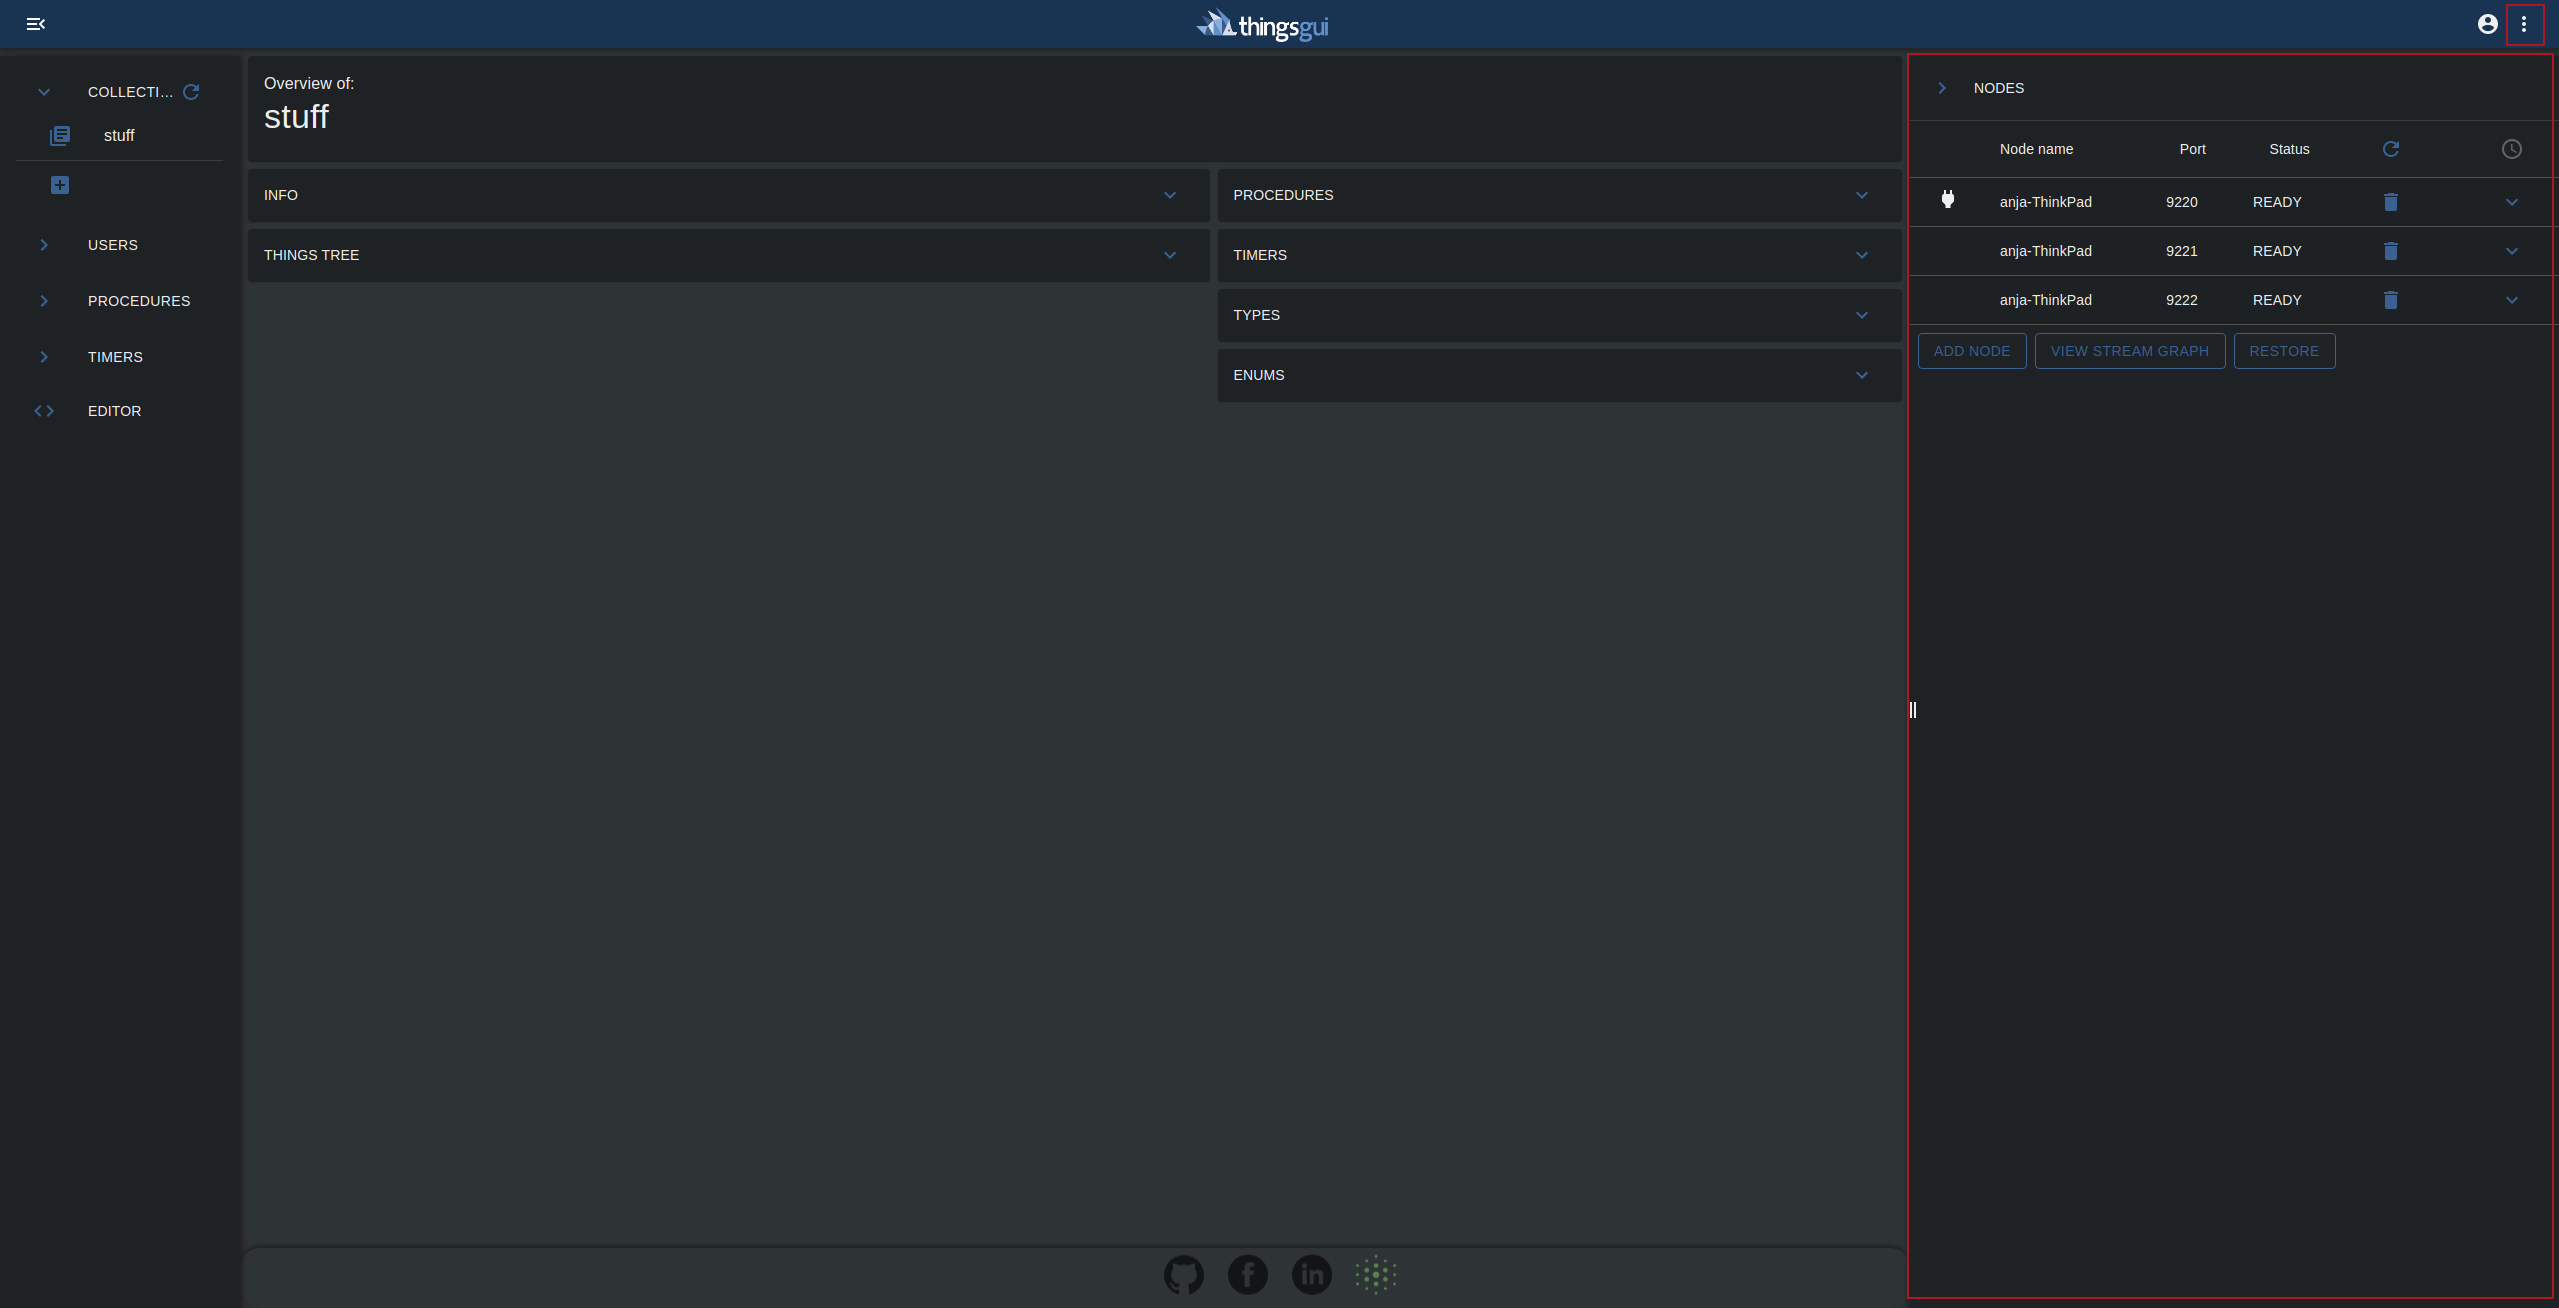
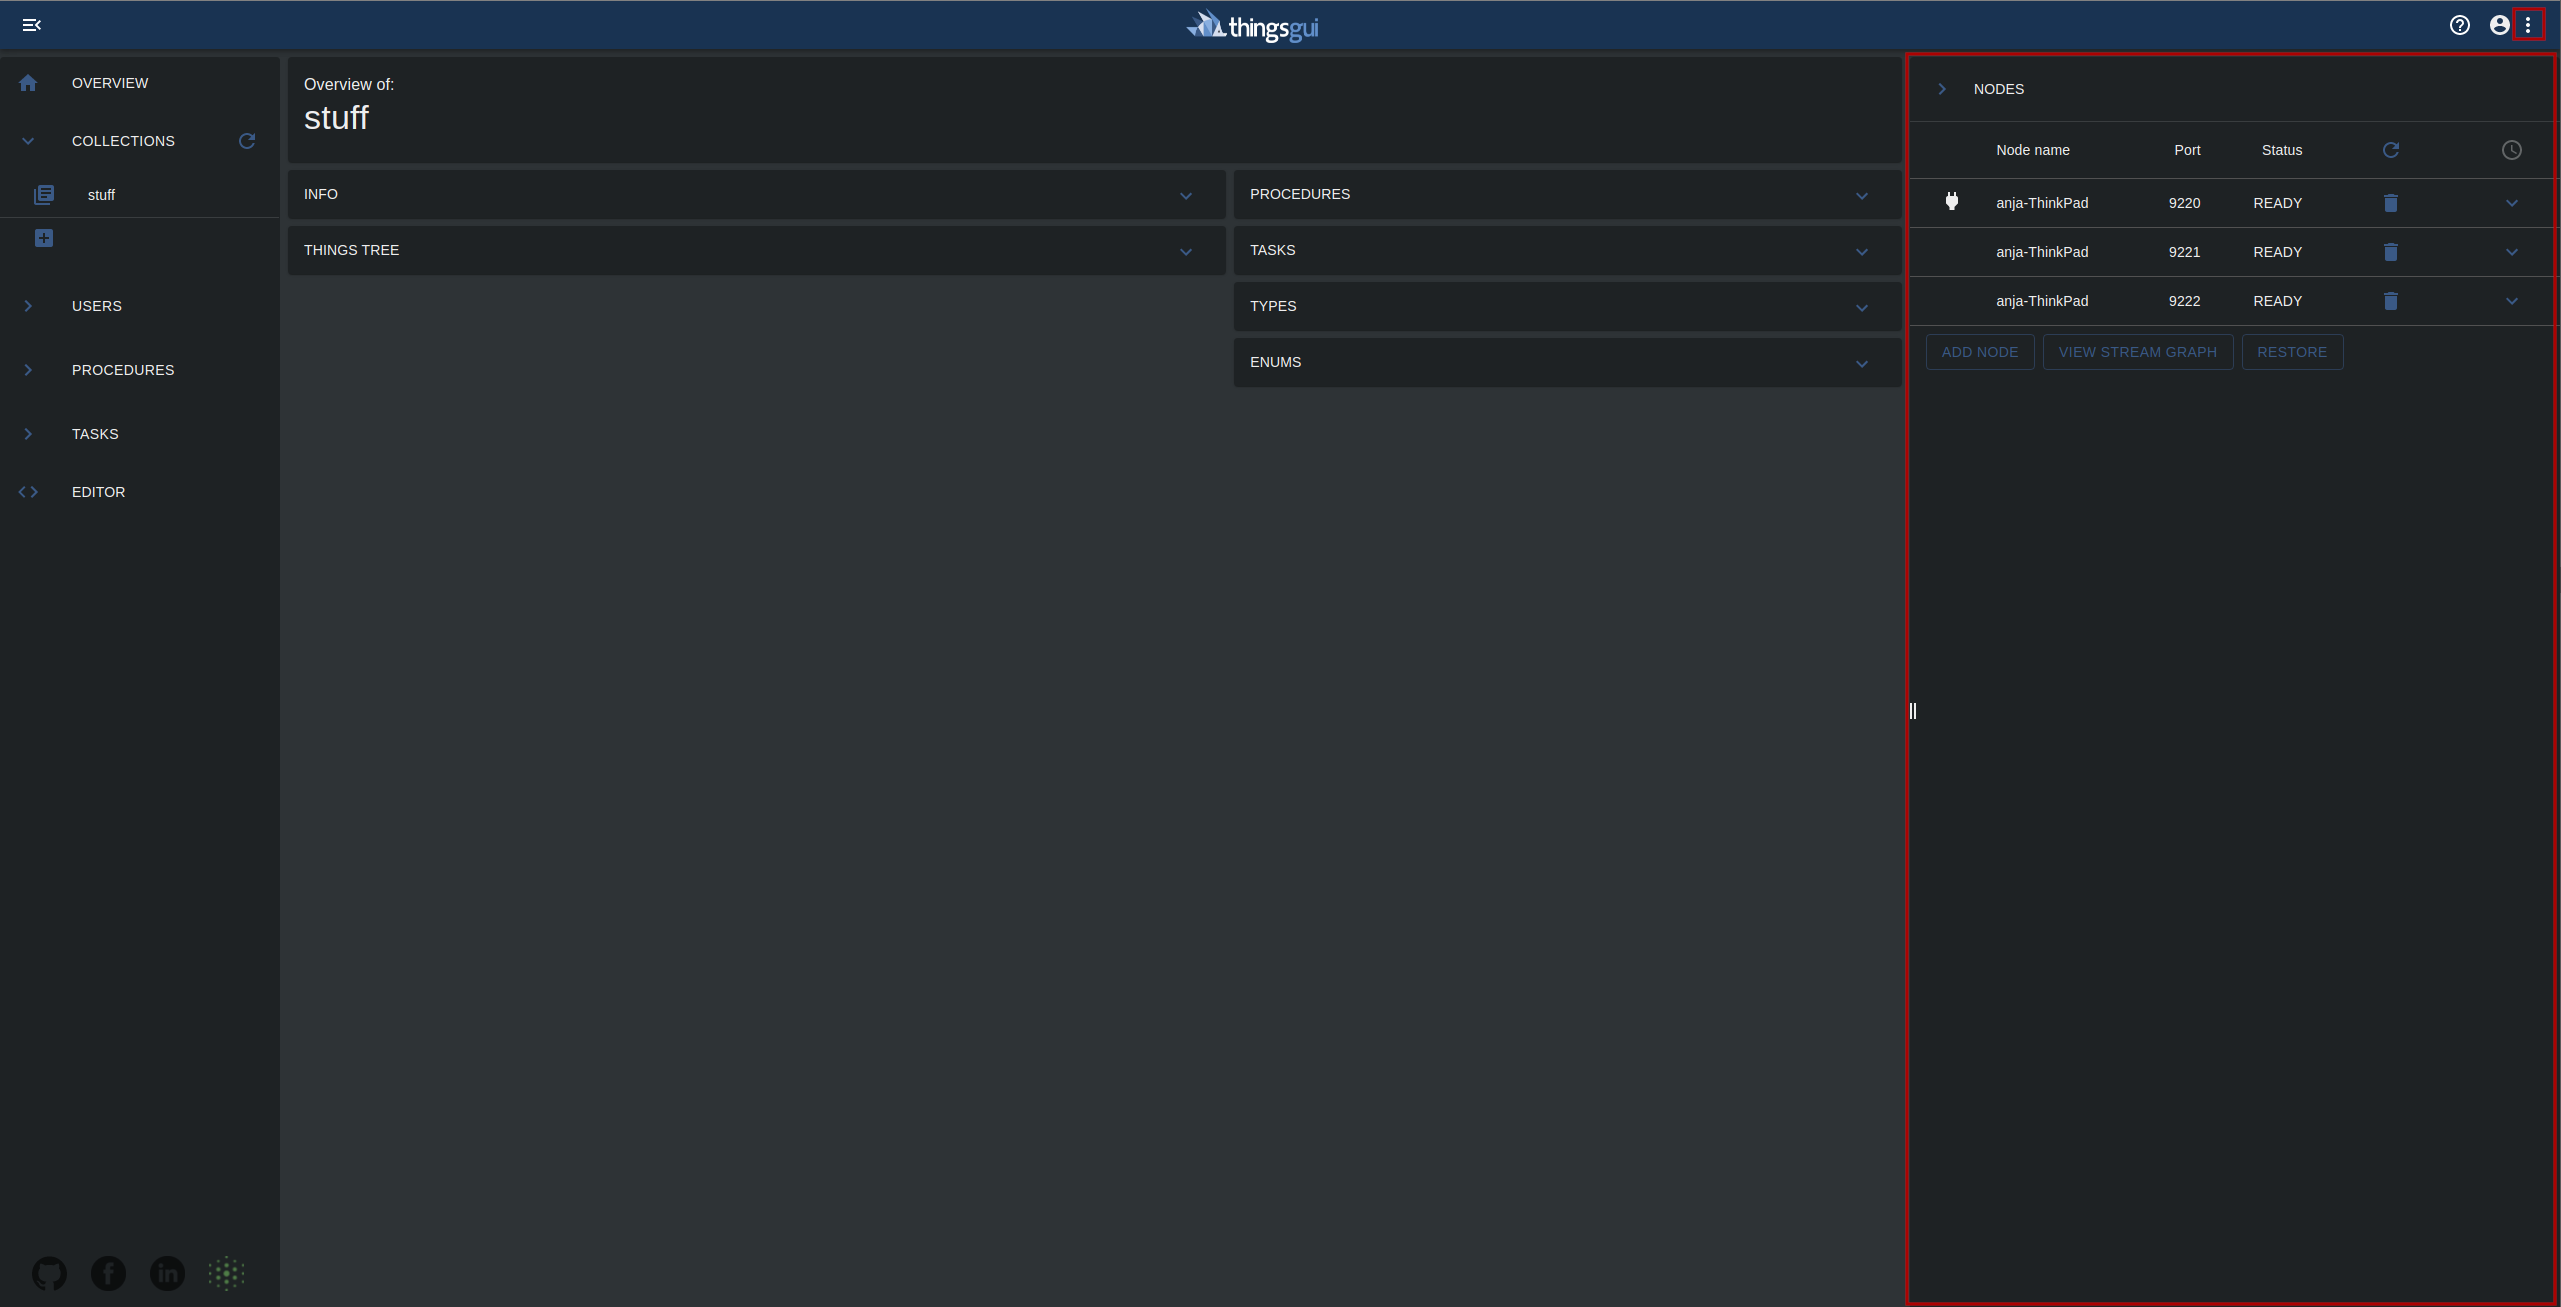
update readme

diff --git a/react/src/Components/Utils/ContextInput/Utils/AddFloat.js b/react/src/Components/Utils/ContextInput/Utils/AddFloat.js
@@ -6,7 +6,7 @@ import TextField from '@mui/material/TextField';
 
 import {EditActions, useEdit} from '../Context';
 
-const onlyFloats = (str) => str.length == str.replace(/[^0-9.]/g, '').length && str.includes('.');
+const onlyFloats = (str) => str.length == str.replace(/[^-0-9.]/g, '').length && str.includes('.');
 
 const AddFloat = ({identifier, init, parent, ...props}) => {
     const [editState, dispatch] = useEdit();

diff --git a/react/src/Components/Utils/ContextInput/Utils/AddInt.js b/react/src/Components/Utils/ContextInput/Utils/AddInt.js
@@ -6,7 +6,7 @@ import TextField from '@mui/material/TextField';
 
 import {EditActions, useEdit} from '../Context';
 
-const onlyInts = (str) => str.length == str.replace(/[^0-9]/g, '').length;
+const onlyInts = (str) => str.length == str.replace(/[^-0-9]/g, '').length;
 
 const AddInt = ({identifier, init, parent, ...props}) => {
     const [editState, dispatch] = useEdit();

diff --git a/README.md b/README.md
@@ -22,13 +22,15 @@ Tool for managing ThingsDB user accounts, nodes and collections. ThingsGUI is a 
     * [Collection configuration](#collection-configuration-(1))
     * [Things tree](#things-tree-(2))
     * [Procedures](#procedures-(3))
-    * [Timers](#timers-(4))
+    * [Tasks](#tasks-(4))
     * [Types](#types-(5))
     * [Enums](#enums-(6))
   * [Users](#users)
     * [User configuration](#user-configuration-(1))
     * [Access rules](#access-rules-(2))
     * [Tokens](#tokens-(3))
+  * [Procedures](#procedures)
+  * [Tasks](#tasks)
   * [Nodes](#nodes)
     * [Node configuration](#node-configuration)
     * [Backup](#Backup)
@@ -39,7 +41,7 @@ Tool for managing ThingsDB user accounts, nodes and collections. ThingsGUI is a 
 
 ## Requirements
 
-ThingsGUI v1 works with ThingsDB version 1.0.0 and higher.
+ThingsGUI v1 works with ThingsDB version 1.1.0 and higher.
 
 ---------------------------------------
 
@@ -211,13 +213,11 @@ Basic information about the collection can be found in the __INFO__ container. I
 
 The __THINGS TREE__ panel contains a tree-like overview of all the [properties](https://docs.thingsdb.net/v1/overview/properties/) stored in the selected collection.
 
-Clicking a property will open a dialog where you can add, edit and delete a property. It really depends on the type (e.g. string, integer, list, thing etc.) of the property which of the above mentioned actions are possible.
+Click <img src="readme/img/key_tool_icon.png" alt="alt watch" width="30px" />  to open a dialog where you can add, edit and delete a property. It really depends on the type (e.g. string, integer, list, thing etc.) of the property which of the above mentioned actions are possible.
 
 In case of type [Room](https://docs.thingsdb.net/v1/data-types/room/) you also find a button to join or leave this room.
 
 Clicking <img src="readme/img/code_editor_icon.png" alt="alt watch" width="30px" /> will direct you to the code editor.
-
-To modify the __root thing__ you need to click on <img src="readme/img/key_tool_icon.png" alt="alt watch" width="30px" /> that you can find at the bottom of the __THINGS TREE__ container.
 
 #### Procedures (3)
 
@@ -233,13 +233,13 @@ Note: there does not exist a `mod_procedure` method like `mod_type`. In this cas
 
 ---
 
-#### Timers (4)
+#### Tasks (4)
 
-<img src="readme/img/collection_timer.png?" alt="alt Login" style="zoom:70%;" />
+<img src="readme/img/collection_task.png?" alt="alt Login" style="zoom:70%;" />
 
-A [timer](https://docs.thingsdb.net/v1/timers-api/) in ThingsDB is a closure that is attached to a scope and runs at a scheduled time. Timers may be configured with a repeat value *(at least 30 seconds)* or as a one-time schedule.
+A [task](https://docs.thingsdb.net/v1/data-types/task/) in ThingsDB is a closure that is attached to a scope and runs at a scheduled time. Tasks may be re-scheduled or run as a one-time task.
 
-It is possible to add, edit the arguments, delete and run a timer.
+It is possible to add, edit the arguments, owner and closure. A task can be canceled and deleted.
 
 #### Types (5)
 
@@ -282,6 +282,17 @@ If you have `GRANT` rights it is possible to modify the [access rules](https://d
 
 If you have `CHANGE` rights it is possible to add and delete your own access tokens. You need `GRANT` rights to do this for other users.
 
+### Procedures
+
+<img src="readme/img/procedure.png?" alt="alt Login" style="zoom:70%;" />
+
+Procedures can be used in in the `@collection` and `@thingsdb` scopes. Here you find the procedures in the `@thingsdb` scope.
+
+### Tasks
+
+<img src="readme/img/task.png?" alt="alt Login" style="zoom:70%;" />
+
+Tasks can be used in in the `@collection` and `@thingsdb` scopes. Here you find the tasks in the `@thingsdb` scope.
 
 
 ### Nodes
@@ -332,18 +343,15 @@ Under the __MODULES__ tab you can add, edit, restart and remove [modules](https:
 
 The editor provides a way to interact with ThingsDB on a more lower level. ThingsDB has its own native language. Therefore you can choose to code instead of using the graphical interface and build scripts that do a bunch of things. It is even possible to store these scripts in a procedure that you can reuse. To help a bit with learning the language, the graphical interface of ThingsGUI often displays the query that goes along with a basic action. [ThingsDocs](https://docs.thingsdb.net/v1/) informs you about all the functionality.
 
-
-
 Next to the editor you find the __SCOPES__ panel where you can change the [scope](https://docs.thingsdb.net/v1/overview/scopes/) to the one you need before sending the query. ThingsDB has three main scopes: `@thingsdb`, `@node` and `@collection`. Where the collection and node scope are subdivided. The format of a specific collection scope is `@collection:collection_name` and for a node it is `@node:node_id`, e.g. `@collection:stuff`, `@node:0`.
 
-Depending on the selected scope you may also see a __PROCEDURES__, __TIMERS__, __TYPES__ and __ENUMS__ panel.
-
-
+Depending on the selected scope you may also see a __PROCEDURES__, __TASKS__, __TYPES__ and __ENUMS__ panel.
 
 <img src="readme/img/editor.png?" alt="alt Login" style="zoom:70%;" />
 
+In the bottom you also find a tab __ARGUMENTS__. Here you can add the arguments your scripts needs, so you don't need to change your script.
 
-
+<img src="readme/img/editor_arguments.png?" alt="alt Login" style="zoom:70%;" />
 ---
 
 Note:
